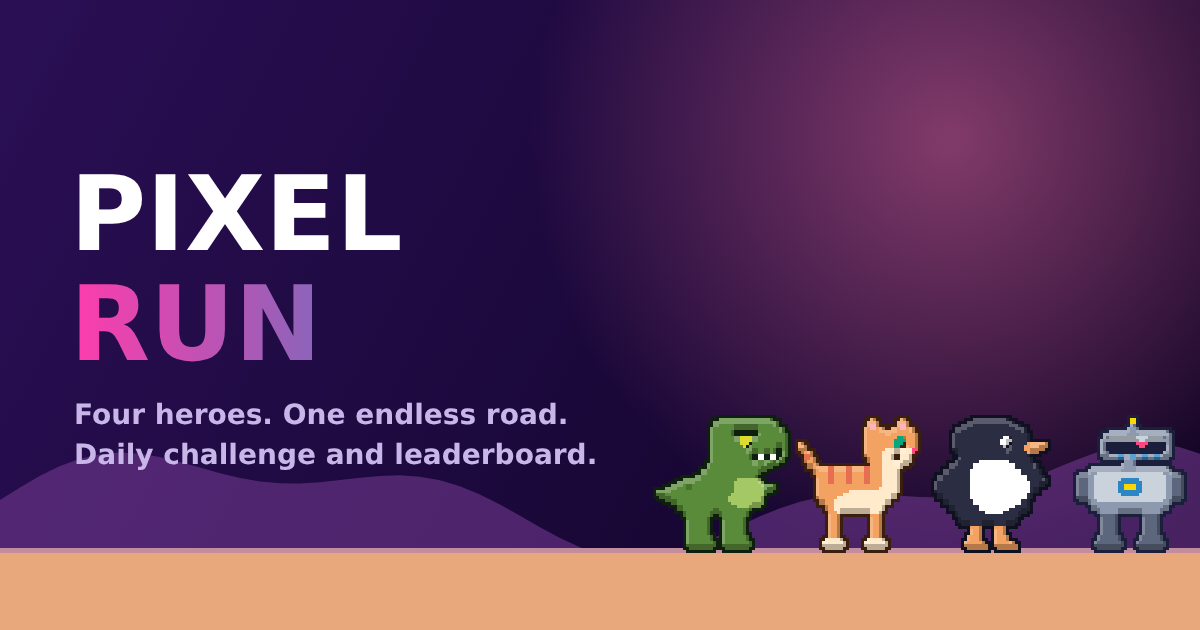
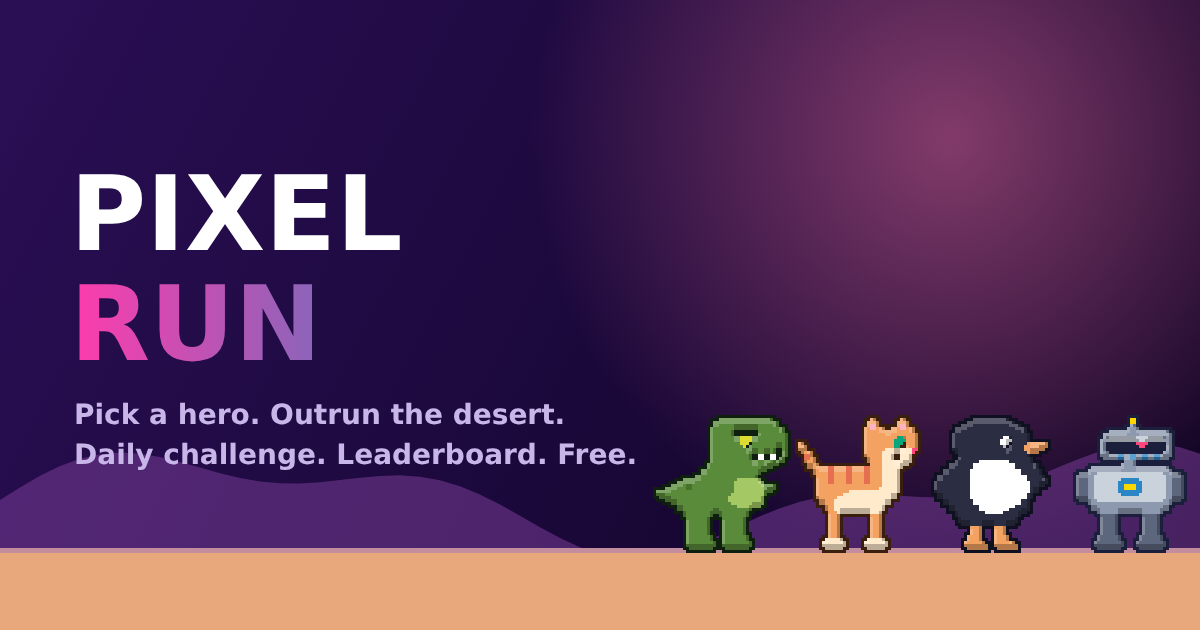
Rewrite the game description, tagline, tags and share text
Claude-Session: https://claude.ai/code/session_01UW47mhXMq8YouKCrDtqoFe

Changed region(s): [[0.0617, 0.6333, 0.5242, 0.754]]

diff --git a/standalone.html b/standalone.html
@@ -3,12 +3,12 @@
 <head>
 <meta charset="UTF-8">
 <meta name="viewport" content="width=device-width, initial-scale=1, viewport-fit=cover">
-<title>Pixel Run — Standalone</title>
-<meta name="description" content="Pixel Run: a pixel-art endless runner with four heroes, a day and night cycle and a daily challenge.">
+<title>Pixel Run — Free Pixel-Art Endless Runner</title>
+<meta name="description" content="Dodge cacti, duck birds and beat the daily course in this funny pixel-art runner. Pick from four heroes, unlock more and climb the leaderboard. Free.">
 <meta name="theme-color" content="#0d0221">
 <meta property="og:type" content="website">
-<meta property="og:title" content="Pixel Run">
-<meta property="og:description" content="Jump the cacti, duck the birds, and pick your hero: Eeny, Meeny, Miny or Moe.">
+<meta property="og:title" content="Pixel Run: Pick a hero. Outrun the desert.">
+<meta property="og:description" content="Dodge cacti, duck birds and beat the daily course with Eeny, Meeny, Miny or Moe.">
 <!-- For share previews, replace this with the full https:// address of og.png once published. -->
 <meta property="og:image" content="assets/img/og.png">
 <meta name="twitter:card" content="summary_large_image">

diff --git a/index.php b/index.php
@@ -140,12 +140,12 @@ $publicUrl = rtrim($publicUrl, '/') . '/';
 <meta charset="UTF-8">
 <meta name="viewport" content="width=device-width, initial-scale=1, viewport-fit=cover">
 <base href="<?= h($baseDir) ?>">
-<title>Pixel Run — Colour Edition</title>
-<meta name="description" content="Pixel Run: a pixel-art endless runner with four heroes, a day and night cycle, a daily challenge and a leaderboard.">
+<title>Pixel Run — Free Pixel-Art Endless Runner</title>
+<meta name="description" content="Dodge cacti, duck birds and beat the daily course in this funny pixel-art runner. Pick from four heroes, unlock more and climb the leaderboard. Free.">
 <meta name="theme-color" content="#0d0221">
 <meta property="og:type" content="website">
-<meta property="og:title" content="Pixel Run">
-<meta property="og:description" content="Jump the cacti, duck the birds, and pick your hero: Eeny, Meeny, Miny or Moe.">
+<meta property="og:title" content="Pixel Run: Pick a hero. Outrun the desert.">
+<meta property="og:description" content="Dodge cacti, duck birds and beat the daily course with Eeny, Meeny, Miny or Moe.">
 <meta property="og:url" content="<?= h($publicUrl) ?>">
 <meta property="og:image" content="<?= h($publicUrl) ?>assets/img/og.png">
 <meta property="og:image:width" content="1200">

diff --git a/README.md b/README.md
@@ -1,9 +1,15 @@
 # Pixel Run
 
-A pixel-art endless runner in the spirit of the browser offline game, with
-a colour day-and-night cycle, four playable characters (Eeny the dino,
-Meeny the tabby cat, Miny the penguin and Moe the bot), bomb and shield pickups, synthesised sound, and an optional global
-leaderboard backed by MySQL/MariaDB, PostgreSQL or SQLite and PHP.
+**Pick a hero. Outrun the desert.**
+
+Pixel Run is a fast, funny pixel-art endless runner. Sprint across a desert
+that drifts from dawn to a starlit night, leap the cacti, duck the birds and
+grab bombs and shields as the pace climbs. Four heroes (Eeny the dino, Meeny the
+cat, Miny the penguin and Moe the bot) each have a skill, a short story and a
+dramatic way of falling over. Race the daily course, climb the leaderboard and
+unlock new runners as your best score grows. It plays on keyboard, phone and
+tablet, works offline, and has an optional global leaderboard backed by
+MySQL/MariaDB, PostgreSQL or SQLite and PHP.
 
 Version 1.0.0. See `CHANGELOG.md` for release notes and `UPGRADING.md`
 if you deployed an earlier draft package.
@@ -68,12 +74,14 @@ share a sign-in. Give each game its own database or SQLite file.
 
 | Field | Meaning |
 |-------|---------|
-| `id`, `title`, `tagline`, `description` | Text for the card and page |
+| `id`, `title`, `tagline` | Name and a one-line pitch for the card |
+| `summary`, `description` | A sentence or two for search and share previews, and the full blurb |
+| `badges` | Short chips for the card ("Daily challenge", "Free to play") |
 | `url` | Where to link (`./`, relative to the game folder) |
 | `standalone` | The no-PHP, no-database page, for hosts without PHP |
 | `thumbnail` | 1280x720 card image (`assets/img/thumb.png`) |
 | `icon`, `shareImage` | 192x192 icon and 1200x630 share preview |
-| `input`, `features`, `tags`, `players`, `requires` | Filters and badges |
+| `tags`, `input`, `features`, `players`, `requires` | Keywords and filters |
 | `version` | Keep in step with `version` in `includes/config.php` |
 
 Paths in `game.json` are relative to the game's folder. A hub on a different

diff --git a/CHANGELOG.md b/CHANGELOG.md
@@ -6,6 +6,11 @@ project uses [Semantic Versioning](https://semver.org/).
 
 ## [Unreleased]
 
+### Changed (copy)
+- Rewrote the description, tagline ("Pick a hero. Outrun the desert."), tags,
+  share text and page titles. `game.json` gains `summary` and `badges` fields
+  for hub cards, and the share image carries the new tagline.
+
 ### Added (arcade hub readiness)
 - Each finished run updates the shared `arcade.stats` record in localStorage
   (best, plays, last score, last played) so a hub on the same domain can show
